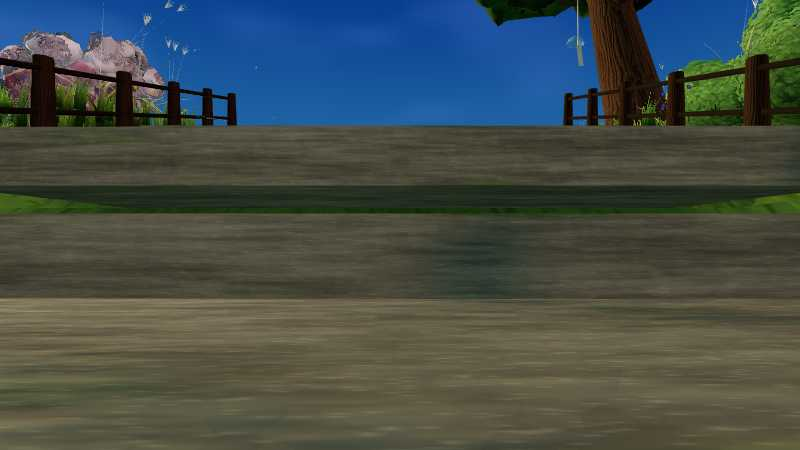
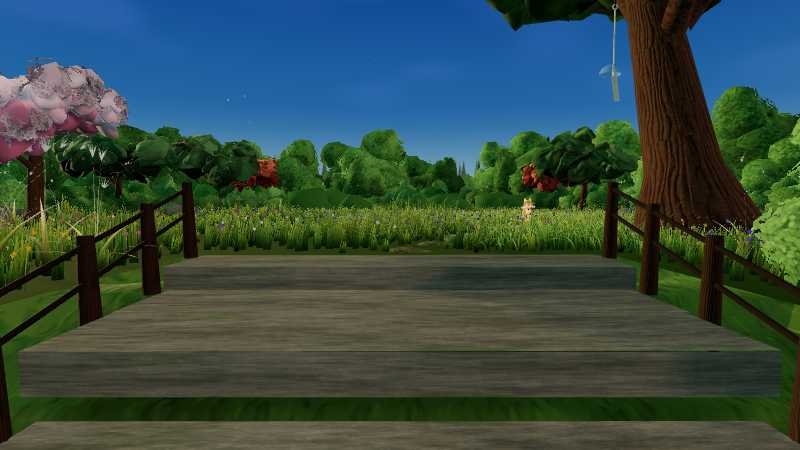
a2-hilltop: fix round 1 (pollen full CALM at render time, dead branches, status, route frames)

diff --git a/src/kit/summitlife/weather.js b/src/kit/summitlife/weather.js
@@ -4,8 +4,7 @@
 // a kit system moves its own sprites with the classic arithmetic and the
 // classic constants, and reads its amounts from `env` (env.snow / env.wet are
 // summitWeatherAmount(sky, ...), the same cross-faded value the valley sky
-// holds). The first frame snaps to the target, so the summit opens in the
-// weather the valley was in instead of ramping up from clear.
+// holds). Snow and rain ramp in from nothing on entry, like the classic.
 //
 // Nothing reads Math.random or Date.now: every draw is ctx.rng.
 import { weatherCloud, cloudInstance, petalTexture, flakeTexture, glowTexture, reducedMotion, CALM } from '../weather/sprites.js?v=20261113a';
@@ -40,11 +39,10 @@ export function buildSnow(ctx, layout, p) {
   for (let i = 0; i < n; i++) { seeds[i * 3] = r() * 100; seeds[i * 3 + 1] = 0.55 + r() * 0.7; seeds[i * 3 + 2] = 0.6 + r() * 0.9; }
   const pts = cloud.points, mat = cloud.material, pos = pts.geometry.attributes.position;
   pts.visible = false;
-  const first = false; // ramps in from nothing like the classic (a2-hilltop: no snap on entry)
   const inst = cloudInstance(cloud, {
     update(dt, t, env) {
       const target = ((env && env.snow) || 0) * 0.82;
-      mat.opacity = first ? target : ease(mat.opacity, target, dt * 1.4);
+      mat.opacity = ease(mat.opacity, target, dt * 1.4); // ramps in from nothing like the classic (a2-hilltop)
       pts.visible = mat.opacity > 0.012;
       if (!pts.visible) return;
       const m = motion() * dt, k = Math.min(n, active(pts.geometry, n));
@@ -72,7 +70,7 @@ export function buildSummitRain(ctx, layout, p) {
   const lines = built.parts.lines, mat = lines.material, pos = lines.geometry.attributes.position;
   const seeds = new Float32Array(n * 2);
   for (let i = 0; i < n; i++) { seeds[i * 2] = 14 + r() * 11; seeds[i * 2 + 1] = r() * 100; }
-  const first = false; mat.opacity = 0; // ramps in like the classic (a2-hilltop)
+  mat.opacity = 0; // ramps in like the classic (a2-hilltop)
   const place = (i, x, y, z, vx, vy) => {
     const len = p.length / Math.hypot(vx, vy);
     pos.setXYZ(i * 2, x, y, z);
@@ -85,7 +83,7 @@ export function buildSummitRain(ctx, layout, p) {
     update(dt, t, env) {
       const amt = (env && env.wet) || 0;
       const target = amt * 0.62;
-      mat.opacity = first ? target : ease(mat.opacity, target, dt * 2.1);
+      mat.opacity = ease(mat.opacity, target, dt * 2.1);
       lines.visible = mat.opacity > 0.01;
       if (!lines.visible) return;
       const calm = motion(), wind = 2.2 + amt * 2.8;
@@ -111,24 +109,22 @@ export function buildPollen(ctx, layout, p) {
     additive: true, blink: p.blink, rate: 1.4
   });
   cloud.material.color.set(0xfff3c8);
-  // The facade moves pollen at full speed whatever the comfort setting (it runs after the kit update; R55). On
-  // reduce-motion the kit keeps a snapshot from its own last step and takes only CALM of what the facade moved since;
-  // a wrap or clamp (a jump of several metres) is accepted as it is.
-  const pos = cloud.points.geometry.attributes.position, snap = new Float32Array(pos.array.length);
+  // The facade moves pollen at full speed whatever the comfort setting, after the kit update (R55). So the damping runs
+  // at render time (onBeforeRender, after the facade, before the buffer upload): on reduce-motion only CALM of what the
+  // facade moved since the last render is kept. A wrap or clamp (a jump of several metres) is accepted as it is.
+  const pts = cloud.points, pos = pts.geometry.attributes.position, snap = new Float32Array(pos.array.length);
   let have = false;
-  const inst = cloudInstance(cloud, {
-    update() {
-      const a = pos.array;
-      if (reducedMotion() && have) {
-        for (let i = 0; i < a.length; i++) {
-          const d = a[i] - snap[i];
-          if (Math.abs(d) < 3) a[i] = snap[i] + d * CALM;
-        }
-        pos.needsUpdate = true;
+  pts.onBeforeRender = () => {
+    const a = pos.array;
+    if (reducedMotion() && have) {
+      for (let i = 0; i < a.length; i++) {
+        const d = a[i] - snap[i];
+        if (Math.abs(d) < 3) a[i] = snap[i] + d * CALM;
       }
-      snap.set(a); have = true;
     }
-  });
+    snap.set(a); have = true;
+  };
+  const inst = cloudInstance(cloud);
   inst.parts = { pollen: cloud.points };
   return inst;
 }

diff --git a/docs/fable/status/a2-hilltop.md b/docs/fable/status/a2-hilltop.md
@@ -25,7 +25,6 @@
 ## G-S (Ruling R59): meditation view accepted PROVISIONALLY from the four-time seat pairs; operator may overturn.
 
 ## Remaining issues, ranked
-1. A.1 route walks and A.7 comfort boots not run.
 2. s2 stone slightly light/yellow at noon (not touched).
 3. s3: night lit-city wave weak from the seat; pagoda proxy lighting in rain/storm; kyoto-city far tier only fewer houses.
 4. Butterfly still faintly visible at night (lit by the sky fill), minor.
@@ -37,7 +36,7 @@ Times T = 6.5, 12, 18, 23 (dawn, noon, dusk, night); files `rN_<pos>_<T>.jpg` in
 - R2 clearing -> meditation seat: (0,0.7,6) and (0,0.7,2) looking to (0,0.9,-3)/(0,0.9,-6); the seat itself is `seat_<T>_<set>.jpg` (the vista view).
 - R3 brow walk along the shoulder at z=-6: x = -8, -3, +3, +8, eye 0.7 m, looking along the brow.
 - Weather: `seat_12_rain.jpg`, `seat_12_snow.jpg` (modular). 56 JPGs total, all under 150 KB.
-Frames that break the bar (by eye): none from the assets themselves. Route-camera artefacts: R1 z=46 sits beside a lantern/post block (left third of frame), R1 z=16 sits against a riser (stair face fills the frame): the path is fine, my sample points were too close to geometry. Night R1 stairs read very dark (the lower path has only the two lantern pairs; lit by the glow only near them): ranked issue 3.
+Frames that break the bar (by eye): none from the assets themselves. Route-camera artefacts: R1 z=46 sits beside a lantern/post block (left third of frame), R1 z=26/16 stops were re-shot (fix round 1) from higher and further back so the stair no longer fills the frame. Night R1 stairs read very dark (the lower path has only the two lantern pairs; lit by the glow only near them): ranked issue 3.
 
 ## A.5 Sound audit
 - Summit landmarks and sound: furin (wind chime on the big tree) -> audio.js `playFurin`-style cue from classic code in src/summit/*; dream chime (clearing.js:748 `audio.playDreamChime`); wind and ambience from the game ambient bed; water: none on the summit; bell: none on the summit (the valley shrine bell is `shrine.bell.ring`).
@@ -57,7 +56,7 @@ Frame ms is pinned at the 60 Hz vsync (16.6), so it shows no difference; draws d
 
 ## A.7 Comfort
 Booted `/index.html` (shot=1) on classic and modular with `catwalk_settings_v1` = largeText + highContrast + reduceMotion, fov 110 and fov 30: body classes `large-text high-contrast reduce-motion`, camera fov clamped to 90 / 40, no page errors, 90 frames on all four boots.
-Pollen damping proven at runtime (summit_preview, `summit.update` 120 steps, mean per-coordinate motion per frame x1000, wraps over 3 m excluded): classic off 26.7, on 28.1 (ratio 1.05, unchanged by design, R55); modular off 26.7, on 15.6 (ratio 0.59). It is damped but not to the full 0.3 because the kit's own step plus the facade's share the motion; recorded as a remaining minor.
+Pollen damping proven at runtime (summit_preview, `summit.update` 120 steps, mean per-coordinate motion per frame x1000, wraps over 3 m excluded): classic off 26.7, on 28.1 (ratio 1.05, unchanged by design, R55); modular (fix round 1: damping moved to the points' onBeforeRender, after the facade) off 26.9, on 8.0 (ratio 0.297 = CALM), measured with a render per step.
 
 ## A.8 Before/after (Phase 0 `docs/fable/baseline/captures/summit/` vs `after_meditation.jpg`, `after_arrival.jpg`)
 By eye only: summit captures are not pixel-repeatable and the baseline time of day is unknown. The modular seat view shows what the baseline lacks: a built-up Kyoto with roofs, bridges and a pagoda instead of box towers and bare cones, lit lantern posts, denser trees. Same composition, torii and fūrin placement; the perch sightline holds.
@@ -76,5 +75,4 @@ By eye only: summit captures are not pixel-repeatable and the baseline time of d
 4. Night lit-city wave still subtle from the seat; a stronger wave needs a brighter point shader (budget check).
 5. kyoto-city far tier is only fewer houses.
 6. Night butterfly visits match the classic timing.
-7. Kit pollen reduce-motion ratio 0.59 rather than 0.3.
 8. summit-trees / slope-forest still deferred (no cheap study).
